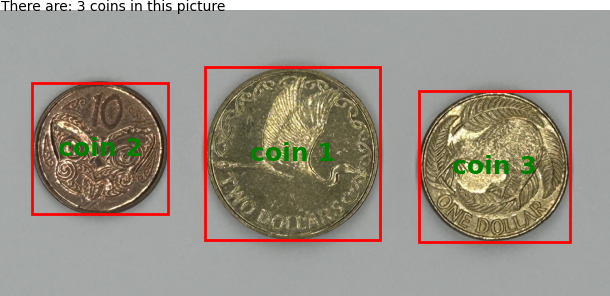
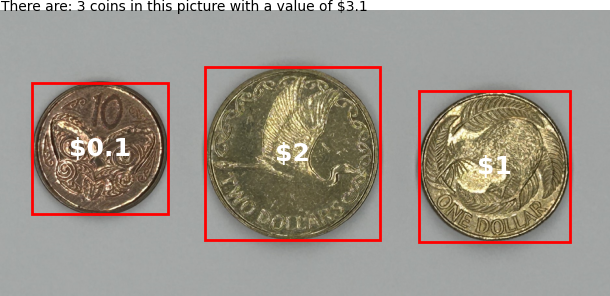
feat: implemented counting total sum of coins functionality

diff --git a/CS373_coin_detection.py b/CS373_coin_detection.py
@@ -304,23 +304,23 @@ def connectedComponentAnalysis(binary_pixel_array, image_width, image_height):
 def findCoinValue(height):
     
     if (height >= 268 * 0.97 and height <= 268 * 1.03):
-        return "$2"
+        return 2
     elif (height >= 231 * 0.97 and height <= 231 * 1.03):
-        return "$1"
+        return 1
     elif (height >= 251 * 0.97 and height <= 251 * 1.03):
-        return "50c"
+        return 0.5
     elif (height >= 215 * 0.97 and height <= 215 * 1.03):
-        return "20c"
+        return 0.2
     elif (height >= 204 * 0.97 and height <= 204 * 1.03):
-        return "10c"
+        return 0.1
     
-    return ""
+    return 0
 
 # This is our code skeleton that performs the coin detection.
 def main(input_path, output_path):
     # This is the default input image, you may change the 'image_name' variable to test other images.
-    image_name = 'easy_case_6'
-    input_filename = f'./Images/easy/{image_name}.png'
+    image_name = 'hard_case_3'
+    input_filename = f'./Images/hard/{image_name}.png'
     if TEST_MODE:
         input_filename = input_path
 
@@ -383,6 +383,7 @@ def main(input_path, output_path):
     axs.imshow(px_array, aspect='equal')
     
     coinCount = 0
+    totalValue = 0
     
     # Loop through all bounding boxes
     for bounding_box in bounding_box_list:
@@ -406,16 +407,16 @@ def main(input_path, output_path):
                 x_center = bbox_xy[0] + bbox_width / 2
                 y_center = bbox_xy[1] + bbox_height / 2
                 print(bbox_height)
-                print(findCoinValue(bbox_height))
-                axs.annotate(findCoinValue(bbox_height), (x_center, y_center), color='w', weight='bold', 
+                totalValue = totalValue + findCoinValue(bbox_height)
+                axs.annotate("$" + str(findCoinValue(bbox_height)), (x_center, y_center), color='w', weight='bold', 
                 fontsize=18, ha='center', va='center')
                 print(str(coinCount) + " the coin is width x height   " + str(bbox_width) + "   " + str(bbox_height))
         
         
     if(coinCount == 1):
-        matplotlib.pyplot.text(1, 1, "There is: " + str(coinCount) + " coin in this picture")
+        matplotlib.pyplot.text(1, 1, "There is: " + str(coinCount) + " coin in this picture with a value of $" + str(round(totalValue, 1)))
     else:
-        matplotlib.pyplot.text(1, 1, "There are: " + str(coinCount) + " coins in this picture")
+        matplotlib.pyplot.text(1, 1, "There are: " + str(coinCount) + " coins in this picture with a value of $" + str(round(totalValue, 1)))
 
         
     
